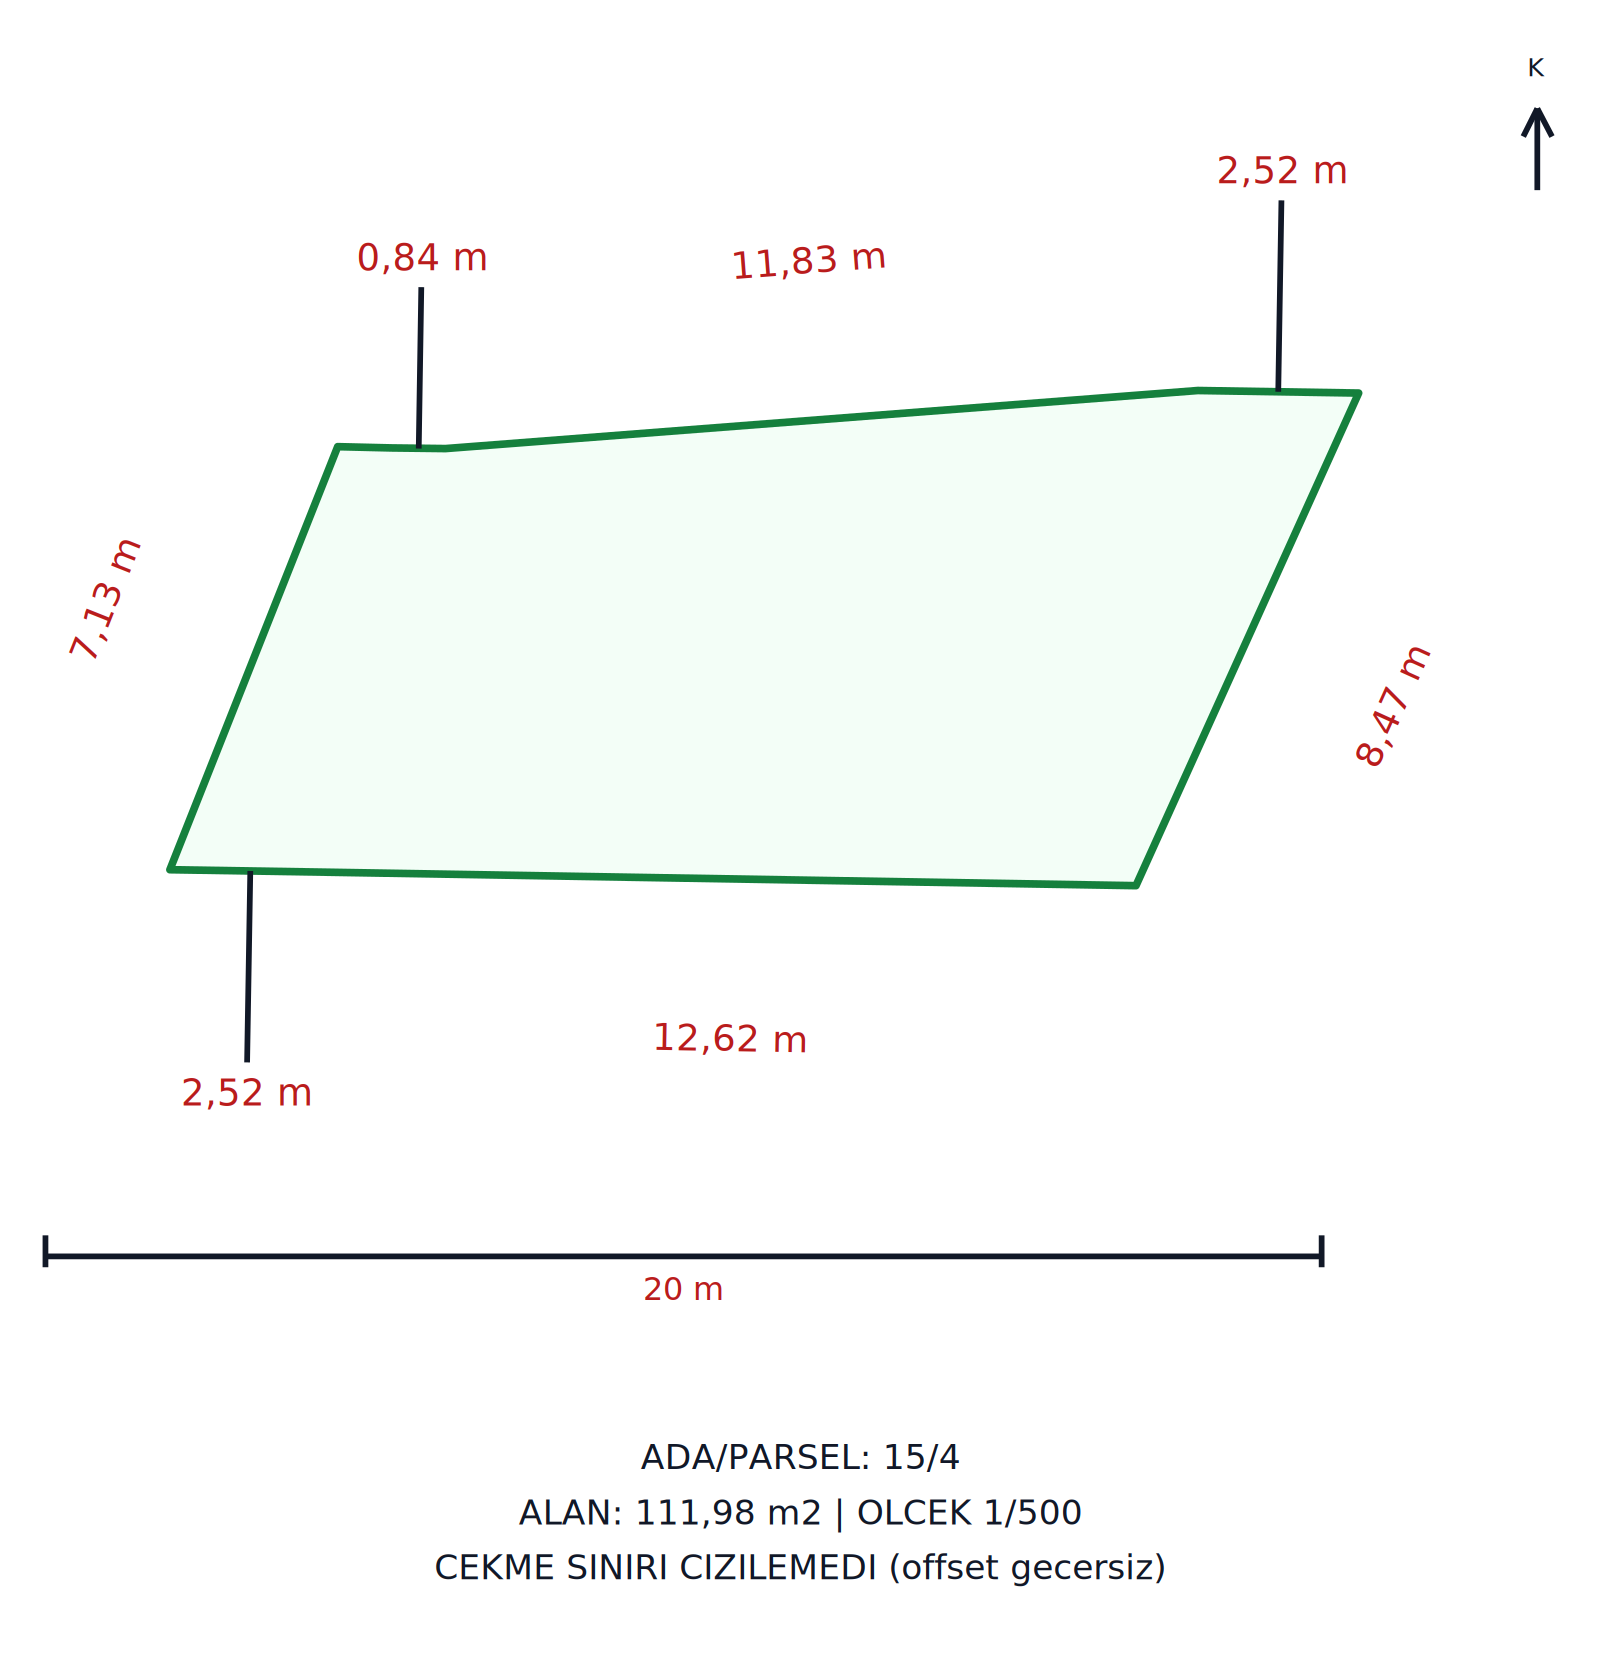
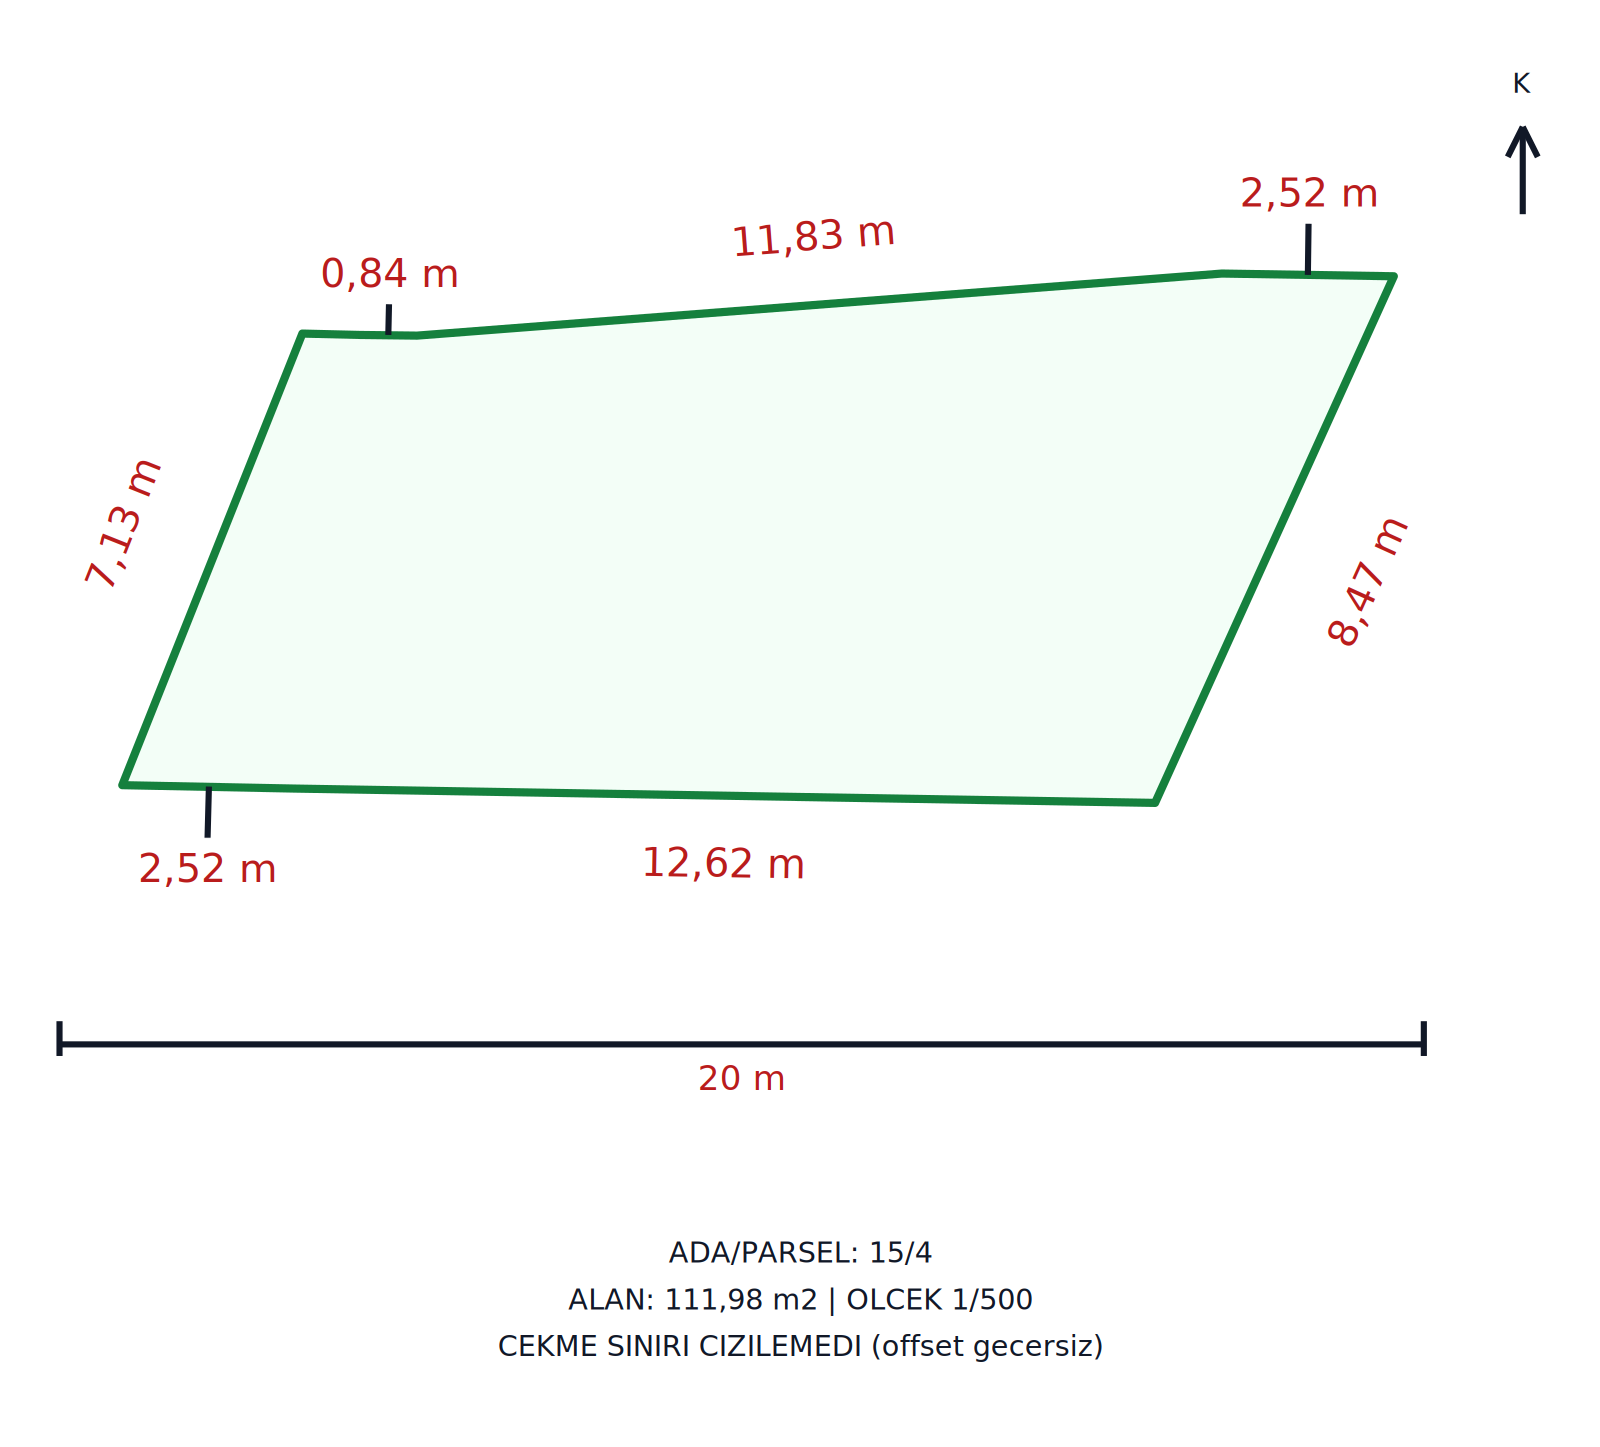
v3.0.5: ölçüler çizgiye yaklaştırıldı + otomatik kurulum
- Uzun kenar etiketi 1,0 m, kısa kenar 0,9-1,2 m (max 1,5 m), lider <=3 m
- Tuval kenarı %4, çakışma testi korunuyor
- setup.sh: cairocffi/cairosvg/pypdf otomatik kurulum (venv farkındalıklı)
- setup.sh --with-browser: playwright + chromium
- requirements-optional.txt, .gitattributes (LF), README hızlı kurulum
- durum aracı eksik paket + kurulum komutu döndürüyor

diff --git a/cizim.py b/cizim.py
@@ -256,6 +256,33 @@ def _metin_kutu(x, y, yazi, h, aci):
     return (x - ew / 2, y - eh / 2, x + ew / 2, y + eh / 2)
 
 
+def _kutu_cizgi_kesisir(k, a, b, eps=0.02):
+    """Eksen-hizali kutu ile dogru parcasinin kesisimi (Liang-Barsky)."""
+    x0, y0, x1, y1 = k[0] + eps, k[1] + eps, k[2] - eps, k[3] - eps
+    if x1 <= x0 or y1 <= y0:
+        return False
+    dx, dy = b[0] - a[0], b[1] - a[1]
+    t0, t1 = 0.0, 1.0
+    for p_, q_ in ((-dx, a[0] - x0), (dx, x1 - a[0]), (-dy, a[1] - y0), (dy, y1 - a[1])):
+        if abs(p_) < 1e-12:
+            if q_ < 0:
+                return False
+        else:
+            r = q_ / p_
+            if p_ < 0:
+                t0 = max(t0, r)
+            else:
+                t1 = min(t1, r)
+            if t0 > t1:
+                return False
+    return True
+
+
+def _kutu_kutu_kesisir(a, b, eps=0.02):
+    return not (a[2] + eps < b[0] or b[2] + eps < a[0] or
+                a[3] + eps < b[1] or b[3] + eps < a[1])
+
+
 def _kutu_birlestir(kutular):
     return (min(k[0] for k in kutular), min(k[1] for k in kutular),
             max(k[2] for k in kutular), max(k[3] for k in kutular))
@@ -274,7 +301,12 @@ def vaziyet_ciz(parse, cekme_poly, kimlik, alan_m2, cekme_degerleri, out_dir, ba
     kutular = [(min(xs), min(ys), max(xs), max(ys))]
     yazilan = []
     liderler = []
+    etiket_mesafeleri = []
+    kullanilan_kenar = []
     h_e = h_txt * 0.8            # etiket yazi boyu
+    kenarlar = [(parse[i], parse[(i + 1) % len(parse)]) for i in range(len(parse))]
+    if cekme_poly:
+        kenarlar += [(cekme_poly[i], cekme_poly[(i + 1) % len(cekme_poly)]) for i in range(len(cekme_poly))]
     for i in range(len(parse)):
         a, b = parse[i], parse[(i + 1) % len(parse)]
         mx, my = (a[0] + b[0]) / 2, (a[1] + b[1]) / 2
@@ -285,35 +317,51 @@ def vaziyet_ciz(parse, cekme_poly, kimlik, alan_m2, cekme_degerleri, out_dir, ba
         nx, ny = dy / L, -dx / L
         if icinde((mx + nx * (max(2.5, g * 0.05) + 0.6), my + ny * (max(2.5, g * 0.05) + 0.6)), parse):
             nx, ny = -nx, -ny
-        kisa = L < 3.0
-        ofs = min(8.0, 4.0) if kisa else max(2.5, g * 0.05)
-        if kisa:
-            ofs = min(8.0, max(3.0, 0.9 * L + 1.2))
-        px, py = mx + nx * ofs, my + ny * ofs
-        # cok yakin iki etiket (or. ayni girintinin iki 0,84 m kenari) ust uste yazilmasin
-        if any(math.hypot(px - q[0], py - q[1]) < 1.4 * h_txt for q in yazilan):
+        # ayni girintinin iki kisa kenari (or. iki 0,84 m) tek etiketle gosterilir
+        if any(math.hypot(mx - q[0], my - q[1]) < 2.0 for q in kullanilan_kenar):
             continue
-        yazilan.append((px, py))
+        kisa = L < 3.0
+        # yazi kenara yakin: uzun kenar 1,0 m; kisa kenar 0,9-1,2 m
+        ofs = 0.9 if L < 1.0 else (1.2 if kisa else 1.0)
         aci = math.degrees(math.atan2(dy, dx))
         if aci > 90:
             aci -= 180
         elif aci < -90:
             aci += 180
         if kisa:
-            aci = 0.0                       # kisa kenar: yatay yaz
+            aci = 0.0
+        yazi = "%s m" % _tr(L)
+        px, py = mx + nx * ofs, my + ny * ofs
+        kutu = _metin_kutu(px, py, yazi, h_e, aci)
+        # cakisma: baska etiket / kenar cizgisi -> 0,2 m adimla disa (toplam en fazla 1,5 m)
+        adim = 0.0
+        while ofs + adim < 1.5 - 1e-9:
+            cak = any(_kutu_kutu_kesisir(kutu, kb) for kb in kutular[1:]) or \
+                  any(_kutu_cizgi_kesisir(kutu, a2, b2) for a2, b2 in kenarlar)
+            if not cak:
+                break
+            adim = round(adim + 0.1, 2)
+            px, py = mx + nx * (ofs + adim), my + ny * (ofs + adim)
+            kutu = _metin_kutu(px, py, yazi, h_e, aci)
+        if any(math.hypot(px - q[0], py - q[1]) < 1.2 * h_txt for q in yazilan):
+            continue
+        yazilan.append((px, py))
+        kullanilan_kenar.append((mx, my))
+        etiket_mesafeleri.append({"kenar_m": round(L, 2),
+                                  "merkez_mesafe_m": round(math.hypot(px - mx, py - my), 2)})
         # lider: kenar orta noktasindan (poligon uzerinde) etiket kutusunun kenarina kadar
-        lider_gerekli = kisa or ofs > 0.6 * L
+        lider_gerekli = kisa
         if lider_gerekli:
-            bosluk = 0.55 * h_e + 0.15 * h_txt
+            bosluk = 0.55 * h_e + 0.12 * h_txt
             ex, ey = px - nx * bosluk, py - ny * bosluk
             ent.append({"tip": "line", "katman": "CIZGI", "a": (mx, my), "b": (ex, ey)})
             liderler.append({"kenar_m": round(L, 2), "baslangic": [round(mx, 2), round(my, 2)],
                              "bitis": [round(ex, 2), round(ey, 2)],
+                             "uzunluk_m": round(math.hypot(ex - mx, ey - my), 2),
                              "baslangic_kenar_mesafe_m": 0.0})
-        yazi = "%s m" % _tr(L)
         ent.append({"tip": "text", "katman": "OLCU", "x": px, "y": py, "yazi": yazi,
                     "h": h_e, "aci": aci, "arka": True})
-        kutular.append(_metin_kutu(px, py, yazi, h_e, aci))
+        kutular.append(kutu)
 
     kb = _kutu_birlestir(kutular)
     # kuzey oku ve olcek cubugu icerik kutusunun disinda, banda degmeyecek sekilde
@@ -328,7 +376,7 @@ def vaziyet_ciz(parse, cekme_poly, kimlik, alan_m2, cekme_degerleri, out_dir, ba
                             max(e["a"][0], e["b"][0]), max(e["a"][1], e["b"][1])))
     kb = _kutu_birlestir(kutular)
     ic_w, ic_h = kb[2] - kb[0], kb[3] - kb[1]
-    pad = 0.03 * max(ic_w, ic_h)
+    pad = 0.04 * max(ic_w, ic_h)
 
     # baslik bandi: tuval yuksekliginin %12'si (en az 3 satir)
     gap = max(2.2 * h_txt, 0.05 * ic_h)
@@ -359,9 +407,13 @@ def vaziyet_ciz(parse, cekme_poly, kimlik, alan_m2, cekme_degerleri, out_dir, ba
     png = os.path.join(out_dir, "parsel.png")
     arac = png_uret(svg, png)
     return {"svg": svg, "png": png if arac else None, "png_arac": arac,
+            "png_kurulum": None if arac else "./setup.sh (cairosvg)",
             "band_orani": round(band / (sinir[3] - sinir[1]), 3),
             "band_ust": round(y_alt, 3),
             "liderler": liderler,
+            "etiket_mesafeleri": etiket_mesafeleri,
+            "cakisan_etiket": sum(1 for kb2 in kutular[1:]
+                                  if any(_kutu_cizgi_kesisir(kb2, a3, b3) for a3, b3 in kenarlar)),
             "sinir": [round(v, 2) for v in sinir]}
 
 

diff --git a/test_mcp.py b/test_mcp.py
@@ -170,6 +170,13 @@ def test_cizim():
           (cekme is not None) == ('class="cekme"' in svg), (cekme is not None))
     check("PNG: baslik bandi ~%12", 0.10 <= (resim.get("band_orani") or 0) <= 0.155,
           resim.get("band_orani"))
+    mes = [m["merkez_mesafe_m"] for m in (resim.get("etiket_mesafeleri") or [])]
+    check("PNG: olcu etiketleri kenara yakin (0,8-1,6 m)", bool(mes) and all(0.8 <= x <= 1.6 for x in mes), mes)
+    check("PNG: etiket-cizgi cakismasi yok", (resim.get("cakisan_etiket") or 0) == 0,
+          resim.get("cakisan_etiket"))
+    liders = resim.get("liderler") or []
+    check("PNG: lider uzunlugu <= 3 m", all(l.get("uzunluk_m", 0) <= 3.0 for l in liders),
+          [(l.get("kenar_m"), l.get("uzunluk_m")) for l in liders])
 
     # kisa kenarli sentetik parsel: liderler kenara bagli mi
     kisa = [(0, 0), (10, 0), (10, 10), (8, 10), (8, 9.2), (6, 9.2), (6, 10), (0, 10)]
@@ -394,6 +401,14 @@ def run_online():
             ayrik, en_alt = _etiketler_bandin_ustunde(t.get("svg", ""), t.get("sinir") or [0, 0, 0, 0],
                                                       t.get("band_ust") or 0)
             check("cizim %s/%s: etiketler bandin ustunde" % (_ada, _parsel), ayrik, en_alt)
+            _mes = [m["merkez_mesafe_m"] for m in (t.get("etiket_mesafeleri") or [])]
+            check("cizim %s/%s: etiketler kenara yakin (0,8-1,6 m)" % (_ada, _parsel),
+                  bool(_mes) and all(0.8 <= x <= 1.6 for x in _mes), _mes)
+            check("cizim %s/%s: cizgi cakismasi yok" % (_ada, _parsel),
+                  (t.get("cakisan_etiket") or 0) == 0, t.get("cakisan_etiket"))
+            check("cizim %s/%s: lider <=3 m" % (_ada, _parsel),
+                  all(l.get("uzunluk_m", 0) <= 3.0 for l in (t.get("liderler") or [])),
+                  [(l.get("kenar_m"), l.get("uzunluk_m")) for l in (t.get("liderler") or [])])
             _e2, _pv = cagir("parsel", {"il": "Rize", "ilce": "Merkez", "mahalle": _mah,
                                         "ada": _ada, "parsel": _parsel})
             _gj = (_pv or {}).get("geojson_dosya")
@@ -448,6 +463,22 @@ def run_online():
         proc.wait(timeout=10)
 
 
+def test_kurulum_dosyalari():
+    import subprocess
+    sh = os.path.join(HERE, "setup.sh")
+    check("setup.sh var ve calistirilabilir", os.path.exists(sh) and os.access(sh, os.X_OK), sh)
+    r = subprocess.run(["bash", "-n", sh], capture_output=True, text=True)
+    check("setup.sh sozdizimi (bash -n)", r.returncode == 0, r.stderr[:200])
+    r = subprocess.run(["bash", sh, "--help"], capture_output=True, text=True)
+    check("setup.sh --help kullanim yazar", r.returncode == 0 and "with-browser" in r.stdout, r.stdout[:120])
+    req = os.path.join(HERE, "requirements-optional.txt")
+    icerik = open(req, encoding="utf-8").read() if os.path.exists(req) else ""
+    check("requirements-optional.txt paketleri",
+          all(x in icerik for x in ("cairocffi", "cairosvg", "pypdf")), icerik[:80])
+    ga = os.path.join(HERE, ".gitattributes")
+    check(".gitattributes *.sh LF", os.path.exists(ga) and "*.sh text eol=lf" in open(ga, encoding="utf-8").read())
+
+
 def run_offline():
     print("MOD: offline (ag erisimi yok)\n")
     test_sema()
@@ -456,6 +487,7 @@ def run_offline():
     test_cizim()
     test_ozet_pdf_ve_birlestirme()
     test_paket_offline()
+    test_kurulum_dosyalari()
 
 
 def main(argv):

diff --git a/server.py b/server.py
@@ -1009,6 +1009,8 @@ def tool_cizim(args):
                       "cizildi": bool(cekme_poly)},
             "band_orani": resim.get("band_orani"), "band_ust": resim.get("band_ust"),
             "sinir": resim.get("sinir"), "liderler": resim.get("liderler"),
+            "cakisan_etiket": resim.get("cakisan_etiket"),
+            "etiket_mesafeleri": resim.get("etiket_mesafeleri"),
             "epsg": epsg, "merkez_boylam": lon0,
             "uyarilar": ([] if cekme_poly else ["Çekme sınırı çizilemedi (offset geçersiz)."]),
             "zaman": _ts()}
@@ -1151,27 +1153,36 @@ def tool_paket(args):
             "zip_icerik": sorted(icerik), "zaman": _ts()}
 
 
+def _bagimliliklar():
+    import importlib.util
+    adlar = {"cairocffi": "PDF (ozet.pdf / paket.pdf)",
+             "cairosvg": "PNG (parsel.png)",
+             "pypdf": "PDF birlestirme (paket.pdf)",
+             "playwright": "kaynak_sayfa (portal ekran goruntusu)"}
+    var, eksik = {}, []
+    for m in adlar:
+        ok = importlib.util.find_spec(m) is not None
+        var[m] = ok
+        if not ok:
+            eksik.append(m)
+    return var, eksik, adlar
+
+
 def tool_durum(_args):
     d = kaynak.durum()
-    try:
-        import cairosvg  # noqa: F401
-        svg = True
-    except Exception:
-        svg = False
-    try:
-        import cairocffi  # noqa: F401
-        pdf = True
-    except Exception:
-        pdf = False
-    try:
-        import pypdf  # noqa: F401
-        merge = True
-    except Exception:
-        merge = False
+    var, eksik, adlar = _bagimliliklar()
+    var["chromium"] = d["chromium"]
+    if not d["chromium"]:
+        eksik.append("chromium")
+    ipucu = None
+    if eksik:
+        tarayici = "playwright" in eksik or "chromium" in eksik
+        ipucu = "./setup.sh" + (" --with-browser" if tarayici else "")
     return {"sunucu": SERVER_NAME, "surum": SERVER_VERSION, "arac_sayisi": len(TOOLS),
-            "bagimliliklar": {"playwright": d["playwright"], "chromium": d["chromium"],
-                              "chromium_yolu": d["chromium_yolu"], "cairocffi": pdf,
-                              "cairosvg": svg, "pypdf": merge},
+            "bagimliliklar": var,
+            "eksik": eksik,
+            "eksik_aciklama": {k: adlar.get(k, "tarayici (kaynak_sayfa)") for k in eksik},
+            "kurulum": ipucu or "tamam (opsiyonel bagimliliklar hazir)",
             "cache": {"dizin": CACHE_DIR,
                       "dosya": len(os.listdir(CACHE_DIR)) if os.path.isdir(CACHE_DIR) else 0},
             "cikti_dizini": OUT_DIR,

diff --git a/rapor.py b/rapor.py
@@ -325,9 +325,11 @@ def _v(x, bos="belirtilmemiş"):
 def ozet_pdf(path, veri, gorsel=None, kaynak_png=None):
     """3 sayfa: 1 kapak+parsel, 2 imar, 3 cizim + kaynak. Donus: {yazildi,sayfa,neden}."""
     if cairo is None:
-        return {"yazildi": False, "sayfa": 0, "neden": "cairocffi yok"}
+        return {"yazildi": False, "sayfa": 0, "neden": "cairocffi yok",
+                "kurulum": "./setup.sh"}
     if not _font_var():
-        return {"yazildi": False, "sayfa": 0, "neden": "DejaVu Sans fontu yok"}
+        return {"yazildi": False, "sayfa": 0, "neden": "DejaVu Sans fontu yok",
+                "kurulum": "DejaVu Sans yukleyin (ornek: apt-get install fonts-dejavu-core)"}
 
     p = veri.get("parsel") or {}
     im = veri.get("imar") or {}
@@ -452,7 +454,8 @@ def birlestir(ozet, kaynak, hedef):
         from pypdf import PdfWriter, PdfReader
     except Exception:
         return {"durum": "pypdf_yok", "yol": None,
-                "not": "pypdf kurulu degil; ozet ve kaynak PDF ayri dosya olarak birakildi."}
+                "not": "pypdf kurulu degil; ozet ve kaynak PDF ayri dosya olarak birakildi.",
+                "kurulum": "./setup.sh"}
     try:
         w = PdfWriter()
         sayfa = 0

diff --git a/kaynak.py b/kaynak.py
@@ -175,5 +175,6 @@ def kaynak_sayfa(url, out_dir, ad="kaynak_imar", yatay=False, bekle_ms=3500, tim
     if not d["hazir"]:
         return {"durum": "bagimlilik_yok", "url": url,
                 "hata": "playwright/chromium yok (kaynak sayfa alinamadi)",
+                "kurulum": "./setup.sh --with-browser",
                 "pdf": None, "png": None, "plan_pdf": None}
     return _calistir(url, out_dir, ad, yatay, bekle_ms, timeout_s)

diff --git a/README.md b/README.md
@@ -89,7 +89,7 @@ Kurulum adımı yok: `pip install` gerekmez (opsiyonel PDF/kaynak-sayfa bağıml
 
 | Bileşen | Ne için | Yoksa |
 |---|---|---|
-| `playwright` + Chromium | `kaynak_sayfa` / `paket` kaynak PDF+PNG | `{"durum": "bagimlilik_yok"}`; paket özet PDF ile üretilir |
+| `playwright` + Chromium | `kaynak_sayfa` / `paket` kaynak PDF+PNG | `{"durum": "bagimlilik_yok", "kurulum": "./setup.sh --with-browser"}`; paket özet PDF ile üretilir |
 | `cairocffi` | Özet PDF | `ozet.pdf` atlanır, JSON/MD kalır |
 | `cairosvg` | SVG → PNG | `parsel.png` atlanır |
 | `pypdf` | Özet + kaynak PDF birleştirme | İki PDF ayrı kalır, `"birlestirme": "pypdf_yok"` notu |
@@ -130,8 +130,8 @@ aranabilirliği özet sayfalarda korunur.
 ## Testler
 
 ```bash
-python3 test_mcp.py            # offline: 31 kontrol (şema, alias, parser, DXF/PNG, PDF, birleştirme, ZIP, sayfa metrikleri)
-python3 test_mcp.py --online   # 32 kontrol: 2 gerçek parsel + kaynak sayfa + sayfa/görsel metrikleri
+python3 test_mcp.py            # offline: 39 kontrol (şema, alias, parser, DXF/PNG, PDF, birleştirme, ZIP, sayfa metrikleri)
+python3 test_mcp.py --online   # 38 kontrol: 2 gerçek parsel + kaynak sayfa + sayfa/görsel metrikleri
 ```
 
 Offline mod ağa çıkmaz: TKGM/imar/kaynak fonksiyonları fixture ve mock ile değiştirilir.

diff --git a/CHANGELOG.md b/CHANGELOG.md
@@ -1,5 +1,18 @@
 # Changelog
 
+## v3.0.5 — 2026-10-29
+
+- Ölçü yerleşimi: uzun kenarlarda etiket **1,0 m**, kısa kenarlarda **0,9-1,2 m**; çakışma
+  varsa 0,1 m adımlarla en fazla **1,5 m**'ye kadar dışa kaydırma. Lider toplam uzunluğu
+  **≤3 m** (0,45-0,75 m ölçüldü), aynı girintinin ikiz kısa kenarları tek etiketle gösteriliyor.
+- `cakisan_etiket` ve `etiket_mesafeleri` alanları eklendi; testlerde etiket-çizgi çakışması,
+  etiket mesafesi (0,8-1,6 m) ve lider uzunluğu (≤3 m) doğrulanıyor. Tuval kenarı %8→%4.
+- **Kurulum otomasyonu:** `setup.sh` (idempotent; Python ≥3.8 kontrolü, venv farkındalığı,
+  `--with-browser`), `requirements-optional.txt`, `.gitattributes` (`*.sh` LF).
+- `durum` aracı eksik bağımlılıkları ve kurulum komutunu döndürüyor; PDF/PNG/kaynak_sayfa
+  atlandığında neden + `./setup.sh` ipucu veriliyor.
+- Testler: **39 offline, 38 online**.
+
 ## v3.0.4 — 2026-10-29
 
 - Kısa kenar ölçüleri kopuk görünüyordu: lider çizgisi artık **her kısa kenarda** (L<3 m veya
